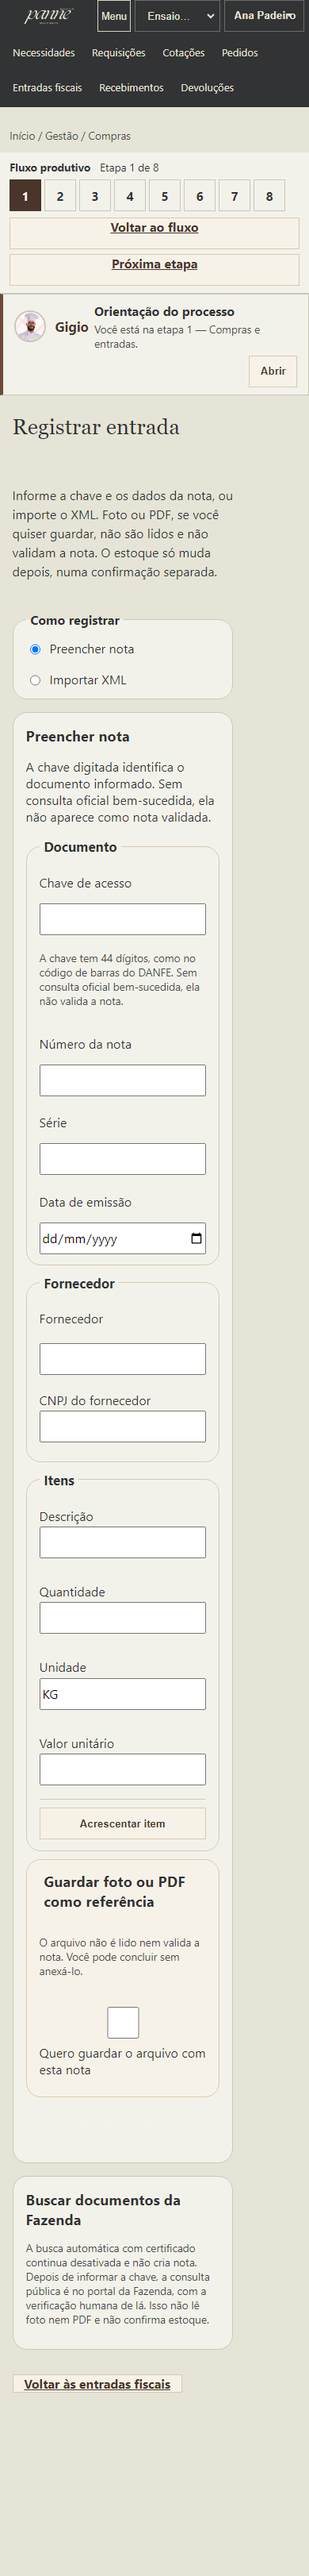
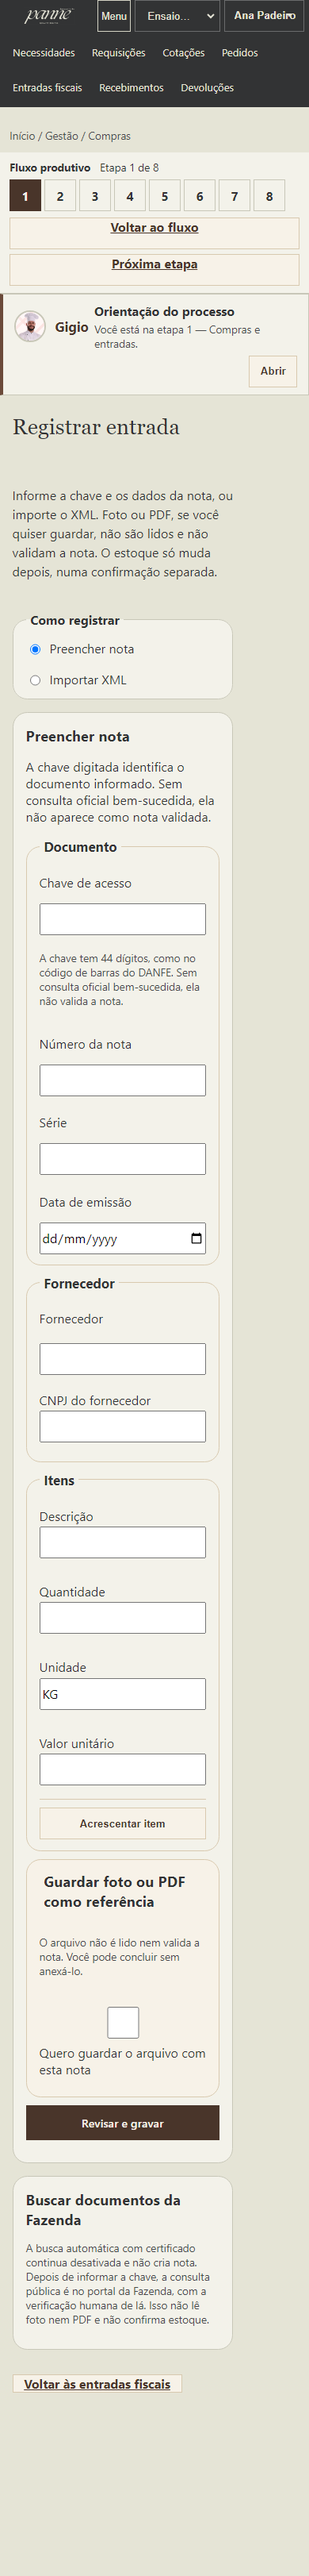
Paint the fiscal entry action with espresso so Revisar e gravar stays visible.

Changed region(s): [[0.0615, 0.8092, 0.7077, 0.8404]]

diff --git a/panne/frontend/src/fiscal-028d.test.tsx b/panne/frontend/src/fiscal-028d.test.tsx
@@ -1,3 +1,6 @@
+import { readFileSync } from "node:fs";
+import path from "node:path";
+import { fileURLToPath } from "node:url";
 import { screen, waitFor, within } from "@testing-library/react";
 import userEvent from "@testing-library/user-event";
 import { afterEach, describe, expect, it, vi } from "vitest";
@@ -16,6 +19,11 @@ afterEach(() => {
   localStorage.clear();
   sessionStorage.clear();
 });
+
+const entryCss = readFileSync(
+  path.resolve(path.dirname(fileURLToPath(import.meta.url)), "styles/app.css"),
+  "utf8",
+);
 
 const UUID_RE = /\b[0-9a-f]{8}-[0-9a-f]{4}-[0-9a-f]{4}-[0-9a-f]{4}-[0-9a-f]{12}\b/i;
 const RAW_ENUM_RE =
@@ -74,6 +82,32 @@ describe("CURSOR-028-D entrada de mercadoria por documento fiscal", () => {
     expect(screen.queryByText(/captura é assistida/i)).not.toBeInTheDocument();
     expect(screen.queryByRole("link", { name: "Consultar esta chave no portal da Fazenda" })).not.toBeInTheDocument();
     expect(screen.getByText(/consulta pública é no portal da Fazenda/i)).toBeInTheDocument();
+  });
+
+  it("ação principal de entrada usa espresso/creme no .entry-page, não --manual-brown órfão", async () => {
+    const user = userEvent.setup();
+    installApiMock();
+    localStorage.setItem("panne.activeOrganization", ORG_A);
+    await renderApp("/gestao/compras/entradas/nova");
+    expect(await screen.findByRole("button", { name: "Revisar e gravar" })).toHaveClass("primary", "manual-primary");
+
+    const scoped = entryCss.match(/\.entry-page\s*\{[\s\S]*?\n\}/)?.[0] ?? "";
+    expect(scoped).toMatch(/--manual-brown:\s*var\(--panne-espresso\)/);
+    const action = entryCss.match(/\.entry-page \.manual-primary\s*\{[\s\S]*?\n\}/)?.[0] ?? "";
+    expect(action).toMatch(/background:\s*var\(--panne-espresso\)/);
+    expect(action).toMatch(/color:\s*var\(--panne-creme\)/);
+    expect(action).toMatch(/border:\s*1px solid var\(--panne-espresso\)/);
+    expect(entryCss).toMatch(/\.entry-page \.manual-primary:hover:not\(:disabled\)/);
+    expect(entryCss).toMatch(/\.entry-page \.manual-primary:focus-visible/);
+    expect(entryCss).toMatch(/\.entry-page \.manual-primary:disabled/);
+
+    await user.type(screen.getByLabelText("Fornecedor"), "Moinho Real");
+    await user.type(screen.getByLabelText("Número da nota"), "50661");
+    await user.type(screen.getByLabelText("Descrição"), "Farinha tipo 1");
+    await user.type(screen.getByLabelText("Quantidade"), "25");
+    await user.click(screen.getByRole("button", { name: "Revisar e gravar" }));
+    expect(await screen.findByRole("button", { name: "Gravar nota" })).toHaveClass("primary", "manual-primary");
+    expect(screen.queryByRole("button", { name: "Revisar e gravar" })).not.toBeInTheDocument();
   });
 
   it("oferece consulta pública no portal após a chave, sem validar nem preencher a nota", async () => {

diff --git a/panne/frontend/src/styles/app.css b/panne/frontend/src/styles/app.css
@@ -386,6 +386,7 @@ a {
 }
 
 .entry-page {
+  --manual-brown: var(--panne-espresso);
   width: min(100%, 66rem);
   max-width: 66rem;
   margin: 0 auto;
@@ -502,6 +503,38 @@ a {
 
 .entry-success .primary {
   display: inline-flex;
+}
+
+.entry-page .manual-primary {
+  display: inline-flex;
+  align-items: center;
+  justify-content: center;
+  width: 100%;
+  max-width: 100%;
+  box-sizing: border-box;
+  border: 1px solid var(--panne-espresso);
+  background: var(--panne-espresso);
+  color: var(--panne-creme);
+}
+
+.entry-page .manual-primary:hover:not(:disabled) {
+  background: var(--panne-grafite);
+  border-color: var(--panne-grafite);
+  color: var(--panne-creme);
+}
+
+.entry-page .manual-primary:focus-visible {
+  outline: 3px solid var(--panne-foco);
+  outline-offset: 2px;
+}
+
+.entry-page .manual-primary:disabled {
+  opacity: 0.48;
+  cursor: not-allowed;
+  filter: grayscale(0.25);
+  background: var(--panne-espresso);
+  border-color: var(--panne-espresso);
+  color: var(--panne-creme);
 }
 
 @media (max-width: 720px) {
